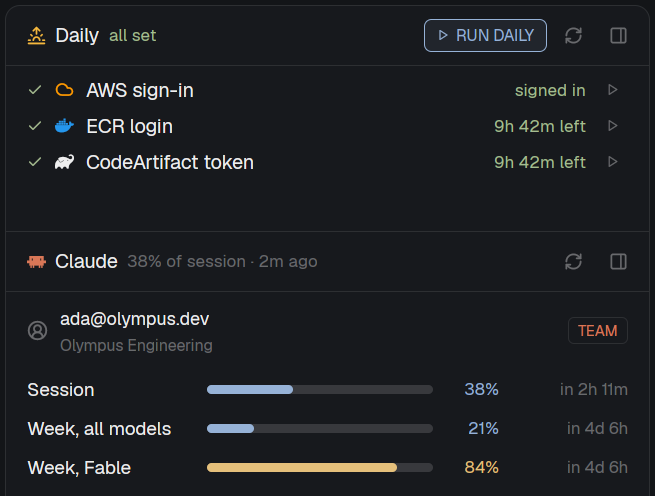
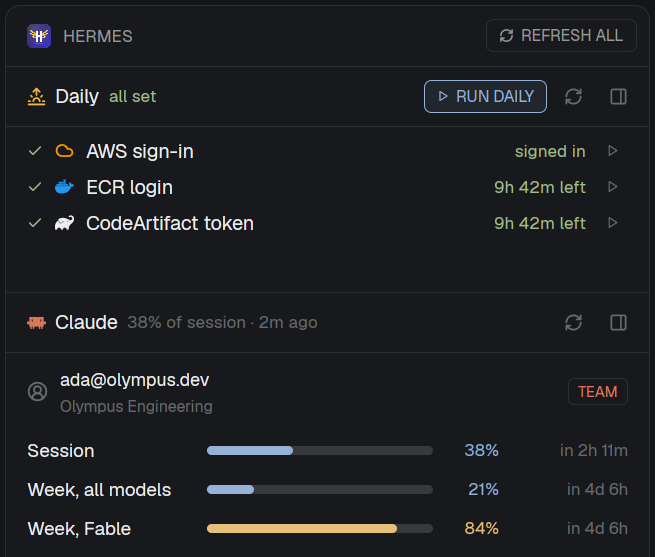
feat: Refresh all, in a bar at the top of the panel
A new hermes mod draws the panel's bar: the HERMES mark and a REFRESH ALL
button that sends each section its own refresh, so every section's ↻
spins as if clicked, and the button spins until the last one is done.
Each section's own ↻ still refreshes just that section.

Claude-Session: https://claude.ai/code/session_0185WidMuc5oBoTKq6sb2SHi

diff --git a/mods/hermes/main.js b/mods/hermes/main.js
@@ -1,0 +1,148 @@
+// The panel's bar: the HERMES mark and Refresh all, at the top of the panel's column.
+//
+// Refresh all presses every section's own refresh: it sends `<mod>.refresh` to each mod in
+// the column (Daily's is its check), so each section's ↻ spins as it would on its own click,
+// and this button spins until the last of them is done. Each section says whether it's
+// refreshing in shared state (`<column>.busy.<mod>`); this mod only reads that.
+//
+// Like every refresh in the panel, it runs only when pressed.
+
+import { View, div, image, svg } from "gpui-kit";
+import { v_flex, h_flex } from "gpui-base";
+import { run, nextCommand, theme, layout, props, shared } from "herdr";
+
+const MOD = "hermes";
+const ICON = (name) => `mods/hermes/icons/${name}.svg`;
+const LOGO = "mods/hermes/logo.svg";
+
+function find(node, id) {
+  if (node?.id === id) return node;
+  for (const child of node?.children ?? []) {
+    const found = find(child, id);
+    if (found) return found;
+  }
+  return null;
+}
+
+// The layout node this copy sits in: the panel's column. Its width says rail or bar.
+const nodeId = () => props()?.node ?? "hermes";
+const width = () => find(layout(), nodeId())?.size?.px;
+const narrow = () => (width() ?? Infinity) < 160;
+// When the layout frames this node itself (a border on it), the mod draws no card of its own.
+const framed = () => Boolean(find(layout(), nodeId())?.border);
+
+// The other sections in the column, by mod, in their order.
+const sections = () => [...new Set((find(layout(), nodeId())?.children ?? []).map((c) => c.content?.mod).filter((m) => m && m !== MOD))];
+const refreshing = () => sections().filter((m) => shared(`${nodeId()}.busy.${m}`) === true);
+
+function load(key, fallback) {
+  try {
+    return JSON.parse(localStorage.getItem(key) ?? "null") ?? fallback;
+  } catch {
+    return fallback;
+  }
+}
+const save = (key, value) => localStorage.setItem(key, JSON.stringify(value));
+
+function ago(ms) {
+  const m = Math.floor((Date.now() - ms) / 60000);
+  if (m < 1) return "just now";
+  if (m < 60) return `${m}m ago`;
+  const h = Math.floor(m / 60);
+  return h < 24 ? `${h}h ago` : `${Math.floor(h / 24)}d ago`;
+}
+
+export default class Hermes extends View {
+  init(_props, cx) {
+    this.lastAll = load("last-all", 0);
+    // `hermes.refresh` (keys.json, or `herdr-app do`) is the button.
+    cx.spawn(async (cx) => {
+      for (;;) {
+        const command = await nextCommand();
+        if (command === "refresh") this.refreshAll(cx);
+      }
+    });
+  }
+
+  refreshAll(cx) {
+    // Screenshots (layout prop `demo: true`): nothing runs.
+    if (props()?.demo || refreshing().length) return;
+    for (const m of sections()) run(`${m}.refresh`);
+    this.lastAll = Date.now();
+    save("last-all", this.lastAll);
+    cx.notify();
+  }
+
+  tip(busy) {
+    if (busy.length) return `Refreshing ${busy.length} of ${sections().length} sections…`;
+    const last = this.lastAll ? ` Last done ${ago(this.lastAll)}.` : "";
+    return `Refresh every section at once: Daily's check, Claude usage, pull requests and Jira (a short Claude run). Each section's own ↻ still refreshes just that one.${last}`;
+  }
+
+  rail(t, busy) {
+    const glyph = svg(ICON("refresh")).size(13);
+    return v_flex()
+      .id("hermes")
+      .size_full()
+      .min_h(0)
+      .when(!framed(), (el) => el.rounded(10).overflow_hidden().bg(t.background).border_1().border_color(t.border))
+      .items_center()
+      .py(8)
+      .gap(6)
+      .child(image(LOGO).size(18).flex_none())
+      .child(
+        div()
+          .id("refresh-all")
+          .size(24)
+          .flex_none()
+          .flex()
+          .items_center()
+          .justify_center()
+          .rounded(6)
+          .text_color(busy.length ? t.accent : t.dim)
+          .when(!busy.length, (el) => el.cursor_pointer().hover((s) => s.bg(t.hover).text_color(t.foreground)))
+          .tooltip(this.tip(busy))
+          .on_click((_e, cx) => this.refreshAll(cx))
+          .child(busy.length ? glyph.spin(900) : glyph),
+      );
+  }
+
+  render(cx) {
+    const t = theme();
+    const busy = refreshing();
+    if (narrow()) return this.rail(t, busy);
+    const glyph = svg(ICON("refresh")).size(10);
+    return h_flex()
+      .id("hermes")
+      .size_full()
+      .min_h(0)
+      .when(!framed(), (el) => el.rounded(10).overflow_hidden().bg(t.background).border_1().border_color(t.border))
+      .pl(14)
+      .pr(8)
+      .gap(8)
+      .items_center()
+      .child(image(LOGO).size(16).flex_none())
+      .child(div().text_size(11.5).font_semibold().text_color(t.muted).child("HERMES"))
+      .child(div().flex_1())
+      .child(
+        h_flex()
+          .id("refresh-all")
+          .flex_none()
+          .h(22)
+          .px(8)
+          .gap(5)
+          .items_center()
+          .rounded(5)
+          .border_1()
+          .border_color(busy.length ? t.accent : t.border)
+          .text_size(10.5)
+          .font_semibold()
+          .text_color(busy.length ? t.accent : t.muted)
+          .when(!busy.length, (el) => el.cursor_pointer().hover((s) => s.bg(t.hover).text_color(t.foreground)))
+          .tooltip(this.tip(busy))
+          .on_click((_e, cx) => this.refreshAll(cx))
+          .child(busy.length ? glyph.spin(900) : glyph)
+          .child(busy.length ? "REFRESHING…" : "REFRESH ALL"),
+      );
+  }
+}

diff --git a/mods/daily-setup/main.js b/mods/daily-setup/main.js
@@ -68,6 +68,12 @@ function find(node, id) {
 
 // The layout node this copy sits in. Its width says rail or list.
 const nodeId = () => props()?.node ?? "daily";
+// Whether this section is refreshing, for the panel bar's Refresh all (mods/hermes): it
+// spins while any section does. Shared, so every mod sees it.
+const busyKey = () => `${nodeId()}.busy.daily-setup`;
+const tellBusy = (busy) => {
+  if (shared(busyKey()) !== busy) setShared(busyKey(), busy);
+};
 const width = () => find(layout(), nodeId())?.size?.px;
 const narrow = () => (width() ?? Infinity) < 160;
 // When the layout frames this node itself (a border on it), the mod draws no card of its own.
@@ -186,6 +192,7 @@ export default class DailySetup extends View {
     this.checkedAt = load("checked-at", 0);
     this.running = new Set();
     this.checking = false;
+    tellBusy(false);
     this.cancelled = false;
     // Screenshots (layout prop `demo: true`): made-up data, and nothing runs.
     if (props()?.demo) {
@@ -194,13 +201,13 @@ export default class DailySetup extends View {
       this.checkedAt = Date.now() - 3 * 60000;
     }
     // `daily-setup.run`, `.cancel`, `.check` and `.toggle` (keys.json, or `herdr-app do`) are
-    // the buttons.
+    // the buttons. `.refresh` is `.check`, as Refresh all sends it.
     cx.spawn(async (cx) => {
       for (;;) {
         const command = await nextCommand();
         if (command === "run") this.runAll(cx);
         if (command === "cancel") this.cancel(cx);
-        if (command === "check") this.check(cx);
+        if (command === "check" || command === "refresh") this.check(cx);
         if (command === "toggle") toggle();
       }
     });
@@ -210,6 +217,7 @@ export default class DailySetup extends View {
   check(cx) {
     if (this.checking || this.running.size || props()?.demo || unset().length) return;
     this.checking = true;
+    tellBusy(true);
     cx.notify();
     cx.spawn(async (cx) => {
       const c = config();
@@ -227,6 +235,7 @@ export default class DailySetup extends View {
       save("steps", this.steps);
       save("checked-at", this.checkedAt);
       this.checking = false;
+      tellBusy(false);
       cx.notify();
     });
   }

diff --git a/mods/agent-prs/main.js b/mods/agent-prs/main.js
@@ -80,6 +80,12 @@ function find(node, id) {
 // The layout node this copy sits in. Its width says rail or list, as the left sidebar's does,
 // so dragging its edge narrow folds it too.
 const nodeId = () => props()?.node ?? "prs";
+// Whether this section is refreshing, for the panel bar's Refresh all (mods/hermes): it
+// spins while any section does. Shared, so every mod sees it.
+const busyKey = () => `${nodeId()}.busy.agent-prs`;
+const tellBusy = (busy) => {
+  if (shared(busyKey()) !== busy) setShared(busyKey(), busy);
+};
 const width = () => find(layout(), nodeId())?.size?.px;
 const narrow = () => (width() ?? Infinity) < 160;
 // When the layout frames this node itself (a border on it), the mod draws no card of its own.
@@ -355,6 +361,7 @@ export default class AgentPrs extends View {
     this.scanning = false;
     this.fetching = false;
     this.spinning = false;
+    tellBusy(false);
     this.problem = null;
     // Screenshots (layout prop `demo: true`): made-up data, and nothing runs.
     if (props()?.demo) {
@@ -377,6 +384,7 @@ export default class AgentPrs extends View {
   refreshNow(cx) {
     if (props()?.demo) return;
     this.spinning = true;
+    tellBusy(true);
     this.scan(cx);
     this.fetch(cx);
     cx.notify();
@@ -406,6 +414,7 @@ export default class AgentPrs extends View {
       } finally {
         this.fetching = false;
         this.spinning = this.scanning;
+        tellBusy(this.spinning);
         cx.notify();
       }
     });
@@ -421,6 +430,7 @@ export default class AgentPrs extends View {
       } catch {}
       this.scanning = false;
       this.spinning = this.fetching;
+      tellBusy(this.spinning);
       cx.notify();
     });
   }

diff --git a/mods/claude-usage/main.js b/mods/claude-usage/main.js
@@ -42,6 +42,12 @@ function find(node, id) {
 
 // The layout node this copy sits in. Its width says rail or list.
 const nodeId = () => props()?.node ?? "claude-usage";
+// Whether this section is refreshing, for the panel bar's Refresh all (mods/hermes): it
+// spins while any section does. Shared, so every mod sees it.
+const busyKey = () => `${nodeId()}.busy.claude-usage`;
+const tellBusy = (busy) => {
+  if (shared(busyKey()) !== busy) setShared(busyKey(), busy);
+};
 const width = () => find(layout(), nodeId())?.size?.px;
 const narrow = () => (width() ?? Infinity) < 160;
 // When the layout frames this node itself (a border on it), the mod draws no card of its own.
@@ -173,6 +179,7 @@ export default class ClaudeUsage extends View {
     this.checkedAt = load("checked-at", 0);
     this.account = load("account", null); // see accountOf
     this.busy = false;
+    tellBusy(false);
     this.problem = null;
     // Screenshots (layout prop `demo: true`): made-up data, and nothing runs.
     if (props()?.demo) {
@@ -202,6 +209,7 @@ export default class ClaudeUsage extends View {
   refresh(cx) {
     if (this.busy || props()?.demo) return;
     this.busy = true;
+    tellBusy(true);
     this.problem = null;
     cx.notify();
     cx.spawn(async (cx) => {
@@ -240,6 +248,7 @@ export default class ClaudeUsage extends View {
         save("account", who);
       }
       this.busy = false;
+      tellBusy(false);
       cx.notify();
     });
   }

diff --git a/mods/jira-tickets/main.js b/mods/jira-tickets/main.js
@@ -133,6 +133,12 @@ function find(node, id) {
 
 // The layout node this copy sits in; its width says rail or list.
 const nodeId = () => props()?.node ?? "jira";
+// Whether this section is refreshing, for the panel bar's Refresh all (mods/hermes): it
+// spins while any section does. Shared, so every mod sees it.
+const busyKey = () => `${nodeId()}.busy.jira-tickets`;
+const tellBusy = (busy) => {
+  if (shared(busyKey()) !== busy) setShared(busyKey(), busy);
+};
 const width = () => find(layout(), nodeId())?.size?.px;
 const narrow = () => (width() ?? Infinity) < 160;
 // When the layout frames this node itself (a border on it), the mod draws no card of its own.
@@ -363,6 +369,7 @@ export default class JiraTickets extends View {
       cx.notify();
     });
     this.busy = false;
+    tellBusy(false);
     this.problem = null;
     // Screenshots (layout prop `demo: true`): made-up data, and nothing runs.
     if (props()?.demo) {
@@ -395,6 +402,7 @@ export default class JiraTickets extends View {
   refresh(cx) {
     if (this.busy || props()?.demo) return;
     this.busy = true;
+    tellBusy(true);
     cx.notify();
     cx.spawn(async (cx) => {
       try {
@@ -409,6 +417,7 @@ export default class JiraTickets extends View {
         this.progressProblem = `Couldn't read the tickets' progress: ${e?.message ?? e}`;
       }
       this.busy = false;
+      tellBusy(false);
       cx.notify();
     });
   }

diff --git a/README.md b/README.md
@@ -30,7 +30,7 @@
 | 📊 | **Claude** | Which Claude account is signed in, and its plan usage as `/usage` shows it: session, week, per-model limits, each with when it resets. |
 | 🔀 | **Pull requests** | Every open PR of mine, grouped by repository, with CI, reviews, threads, conflicts and a pipeline bar. |
 | 🎫 | **Jira** | My sprint, next sprint and backlog, each ticket with a plan → implement → PR → merged progress bar and buttons that start the work. |
-| 🗂 | **One panel** | All four stacked in one framed column, folding to a slim rail of icons and counts. |
+| 🗂 | **One panel** | All four stacked in one framed column under a bar with **REFRESH ALL**, folding to a slim rail of icons and counts. |
 | 🔒 | **Safe by design** | No secret ever reaches the panel's code. Nothing runs, fetches or refreshes until you press a button. |
 
 ### 🌅 Daily
@@ -87,6 +87,8 @@ My tickets in the **current sprint**, the **next sprint** and the **backlog**, r
 
 <img src="docs/screenshots/rail.png" width="55" align="left" alt="The panel folded to a rail">
 
+The bar at the top has **REFRESH ALL**: it presses every section's own refresh at once, so each section's ↻ spins as if you'd clicked it, and the bar reads *Refreshing…* until the last one is done. Each ↻ still refreshes just its own section.
+
 The panel button at the top right of any section folds the whole panel to a 44px rail. Each section keeps its icon and a count there: steps done, session used, open PRs, open tickets. Unfold it and every section gets its height back.
 
 The panel's frame, dividers and rounded corners come from the layout, not the mods.
@@ -99,7 +101,8 @@ Everything a button does can also be run with `herdr-app do <command>`, or bound
 
 | Command | Does |
 |---|---|
-| `daily-setup.run` · `.cancel` · `.check` | run everything · stop a waiting sign-in · check where each step stands |
+| `hermes.refresh` | refresh every section at once (REFRESH ALL) |
+| `daily-setup.run` · `.cancel` · `.check` | run everything · stop a waiting sign-in · check where each step stands (`.refresh` too) |
 | `claude-usage.refresh` | check Claude usage |
 | `agent-prs.refresh` | load open PRs |
 | `jira-tickets.refresh` | load tickets |
@@ -109,7 +112,7 @@ Everything a button does can also be run with `herdr-app do <command>`, or bound
 
 ## 🔒 Security
 
-- **Nothing runs by itself.** No timers and no fetches on start: network and model calls happen only when you press ↻ or a run button.
+- **Nothing runs by itself.** No timers and no fetches on start: network and model calls happen only when you press ↻, REFRESH ALL or a run button.
 - **Secrets never reach the mods.** The ECR password and the CodeArtifact token stay in shell variables and are passed on by `printf`, a builtin. So they never appear in a process's arguments (visible in `ps`), in output, or in JavaScript.
 - **The token file is safe.** It's written owner-only (600), built beside the old file and swapped in whole, so it's never half-written and a failed run leaves it untouched.
 - **Claude usage needs no token.** It's read through Claude Code itself, and of the account only the email, organization, plan and sign-in end are kept.
@@ -154,6 +157,7 @@ Herdr keeps each section's saved state per set of layout props, so changing a se
 
 ```
 mods/
+  hermes/          the bar: the HERMES mark and REFRESH ALL
   daily-setup/     🌅 Daily: the `daily` shell function as buttons
   claude-usage/    📊 Claude: plan usage
   agent-prs/       🔀 Pull requests
@@ -202,6 +206,7 @@ rm ~/.config/herdr-app/layouts/hermes-demo.json
 
 Remove the links:
 
+- `~/.config/herdr-app/mods/hermes`
 - `~/.config/herdr-app/mods/daily-setup`
 - `~/.config/herdr-app/mods/claude-usage`
 - `~/.config/herdr-app/mods/agent-prs`
